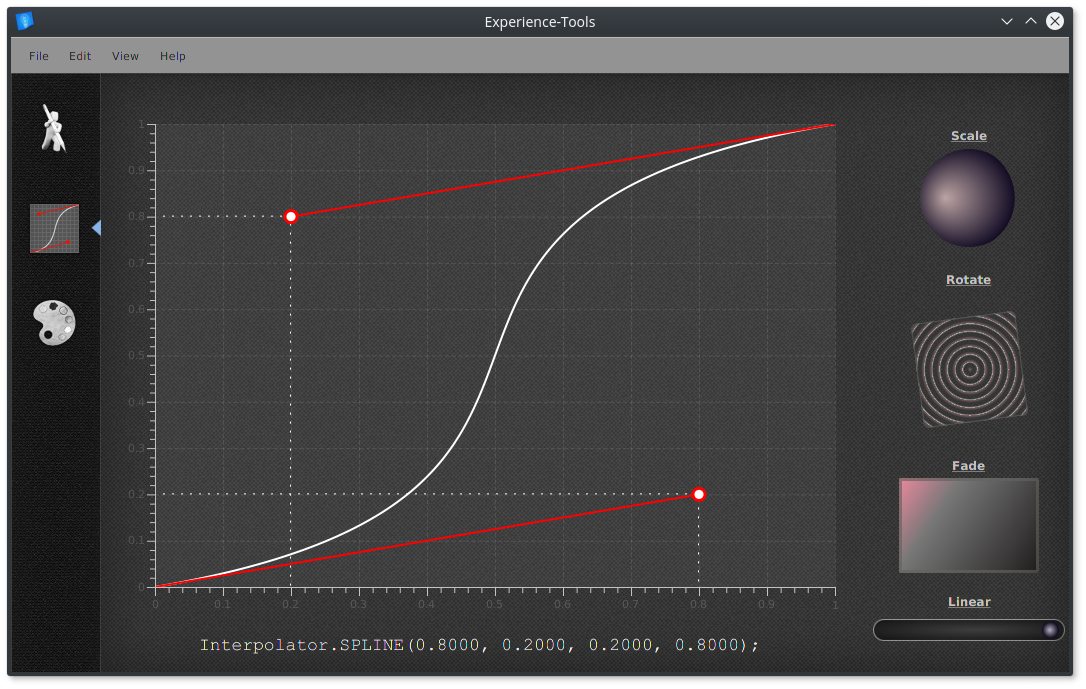
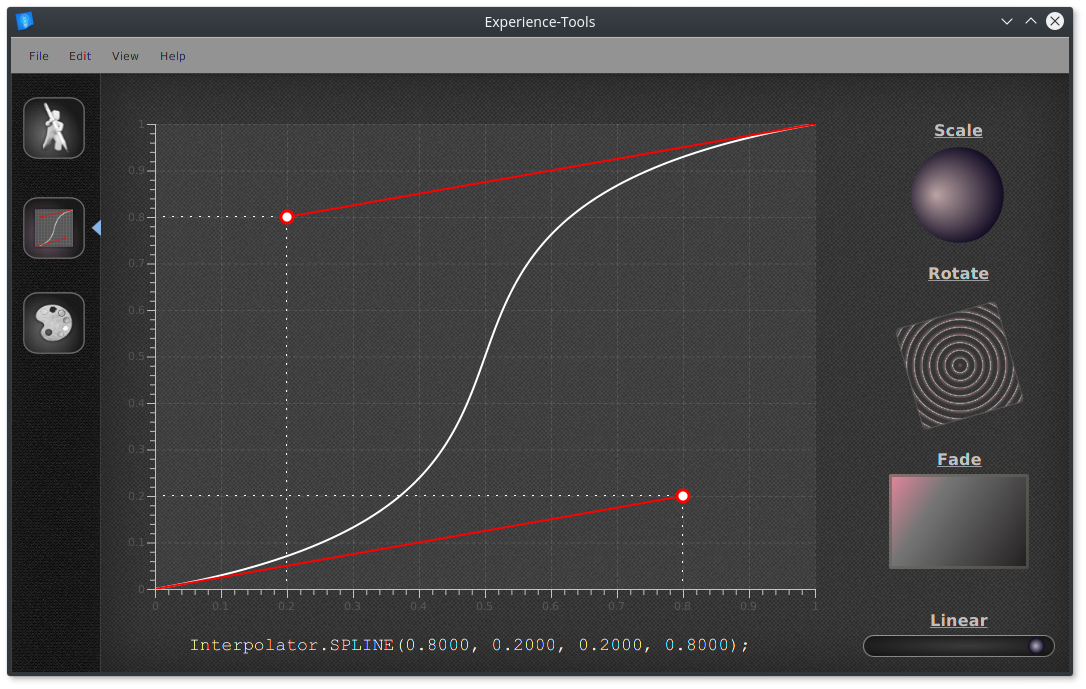
screenshot update

diff --git a/FXExperienceTools/src/main/resources/styles/spline.css b/FXExperienceTools/src/main/resources/styles/spline.css
@@ -11,7 +11,7 @@ different terms and without source code for the larger work.
     Author     : andje22
 */
 #SplineEditor {
-    -fx-background-image: url("/images/darkdenim.png");
+    -fx-background-image: url("../images/darkdenim.png");
     -fx-effect: innershadow( three-pass-box , rgba(0,0,0,0.4) , 80, 0.0 , 0 , 0 );
 }
 
@@ -22,7 +22,7 @@ different terms and without source code for the larger work.
 .animation-label {
     -fx-font-family: "Helvetica Neue", "Lucida Grande", "sans-serif";
     -fx-font-weight: bold; 
-    -fx-font-size: 12px;
+    -fx-font-size: 1.25em;
     -fx-text-fill: #C2C2C3;
     -fx-underline: true;
 }

diff --git a/FXExperienceControls/src/main/java/com/fxexperience/javafx/scene/control/gradientpicker/GradientPicker.java b/FXExperienceControls/src/main/java/com/fxexperience/javafx/scene/control/gradientpicker/GradientPicker.java
@@ -31,9 +31,6 @@ package com.fxexperience.javafx.scene.control.gradientpicker;
  * (INCLUDING NEGLIGENCE OR OTHERWISE) ARISING IN ANY WAY OUT OF THE USE
  * OF THIS SOFTWARE, EVEN IF ADVISED OF THE POSSIBILITY OF SUCH DAMAGE.
  */
-
-
-
 import com.fxexperience.javafx.scene.control.paintpicker.PaintPicker.Mode;
 import com.fxexperience.javafx.scene.control.paintpicker.PaintPickerController;
 import com.fxexperience.javafx.scene.control.rotator.RotatorControl;
@@ -68,36 +65,21 @@ import javafx.scene.control.ChoiceBox;
  */
 public class GradientPicker extends VBox {
 
-    @FXML
-    private Pane track_pane;
-    @FXML
-    private Label stop_label;
-    @FXML
-    private Rectangle preview_rect;
-    @FXML
-    private StackPane slider_container;
-    @FXML
-    private VBox radial_container;
-    @FXML
-    private VBox shared_container;
-    @FXML
-    private HBox hbox_container;
-    @FXML
-    private Slider startX_slider;
-    @FXML
-    private Slider endX_slider;
-    @FXML
-    private Slider startY_slider;
-    @FXML
-    private Slider endY_slider;
-    @FXML
-    private Slider centerX_slider;
-    @FXML
-    private Slider centerY_slider;
-    @FXML
-    private CheckBox proportional_checkbox;
-    @FXML
-    private ChoiceBox<CycleMethod> cycleMethod_choicebox;
+    @FXML private Pane track_pane;
+    @FXML private Label stop_label;
+    @FXML private Rectangle preview_rect;
+    @FXML private StackPane slider_container;
+    @FXML private VBox radial_container;
+    @FXML private VBox shared_container;
+    @FXML private HBox hbox_container;
+    @FXML private Slider startX_slider;
+    @FXML private Slider endX_slider;
+    @FXML private Slider startY_slider;
+    @FXML private Slider endY_slider;
+    @FXML private Slider centerX_slider;
+    @FXML private Slider centerY_slider;
+    @FXML private CheckBox proportional_checkbox;
+    @FXML private ChoiceBox<CycleMethod> cycleMethod_choicebox;
 
     private final PaintPickerController paintPicker;
 

diff --git a/FXExperienceTools/src/main/java/com/fxexperience/tools/controller/StylerController.java b/FXExperienceTools/src/main/java/com/fxexperience/tools/controller/StylerController.java
@@ -38,8 +38,6 @@ public class StylerController extends SplitPane {
     @FXML private SplitPane rootSplitPane;
     @FXML private BorderPane previewPane;
 
-    private PreviewController previewPanel;
-
     @FXML private GridPane textGridPanel;
     @FXML private GridPane sizeGridPanel;
     @FXML private GridPane simpleGridPane;
@@ -75,6 +73,8 @@ public class StylerController extends SplitPane {
     @FXML private ToggleButton shadowToggle;
     @FXML private ToggleButton inputBorderToggle;
 
+    private PreviewController previewPanel;
+
     private final PopupEditor basePicker = new PopupEditor(PaintPicker.Mode.SINGLE, Color.web("#D0D0D0"));
     private final PopupEditor backgroundColorPicker = new PopupEditor(PaintPicker.Mode.SINGLE, Color.web("#f4f4f4"));
     private final PopupEditor focusColorPicker = new PopupEditor(PaintPicker.Mode.SINGLE, Color.web("#0093ff"));
@@ -82,8 +82,6 @@ public class StylerController extends SplitPane {
     private final PopupEditor bkgdTextColorPicker = new PopupEditor(PaintPicker.Mode.SINGLE, Color.web("#000000"));
     private final PopupEditor fieldBackgroundPicker = new PopupEditor(PaintPicker.Mode.SINGLE, Color.web("#ffffff"));
     private final PopupEditor fieldTextColorPicker = new PopupEditor(PaintPicker.Mode.SINGLE, Color.web("#000000"));
-
-
 
     public StylerController() {
         initialize();

diff --git a/FXExperienceTools/src/main/java/com/fxexperience/tools/controller/DerivationController.java b/FXExperienceTools/src/main/java/com/fxexperience/tools/controller/DerivationController.java
@@ -9,7 +9,6 @@
  */
 package com.fxexperience.tools.controller;
 
-
 import com.fxexperience.javafx.fxanimations.FadeInDownBigTransition;
 import com.fxexperience.javafx.scene.control.paintpicker.PaintPicker;
 import com.fxexperience.javafx.scene.control.popup.PopupEditor;
@@ -46,6 +45,7 @@ import java.util.logging.Logger;
 public class DerivationController extends BorderPane {
 
     public final static int INDEX_POS = 2;
+
     @FXML private BorderPane rootPane;
     @FXML private AnchorPane anchorPane;
     @FXML private GridPane gradientGridPane;

diff --git a/README.md b/README.md
@@ -27,6 +27,8 @@ For more info about this app and other JavaFX features please
 ![alt text](https://github.com/EricCanull/fxexperience2/blob/master/FXExperienceTools/src/main/resources/images/screenshots/splinescreenshot.png "Spline Tool")
 ### FX-Derivation Tool
 ![alt text](https://github.com/EricCanull/fxexperience2/blob/master/FXExperienceTools/src/main/resources/images/screenshots/derivationscreenshot.png "Derivation calculator")
+### FX-Gradient Tool
+![alt text](https://github.com/EricCanull/fxexperience2/blob/master/FXExperienceTools/src/main/resources/images/screenshots/gradientscreenshot.png "Derivation calculator")
 
 
 
